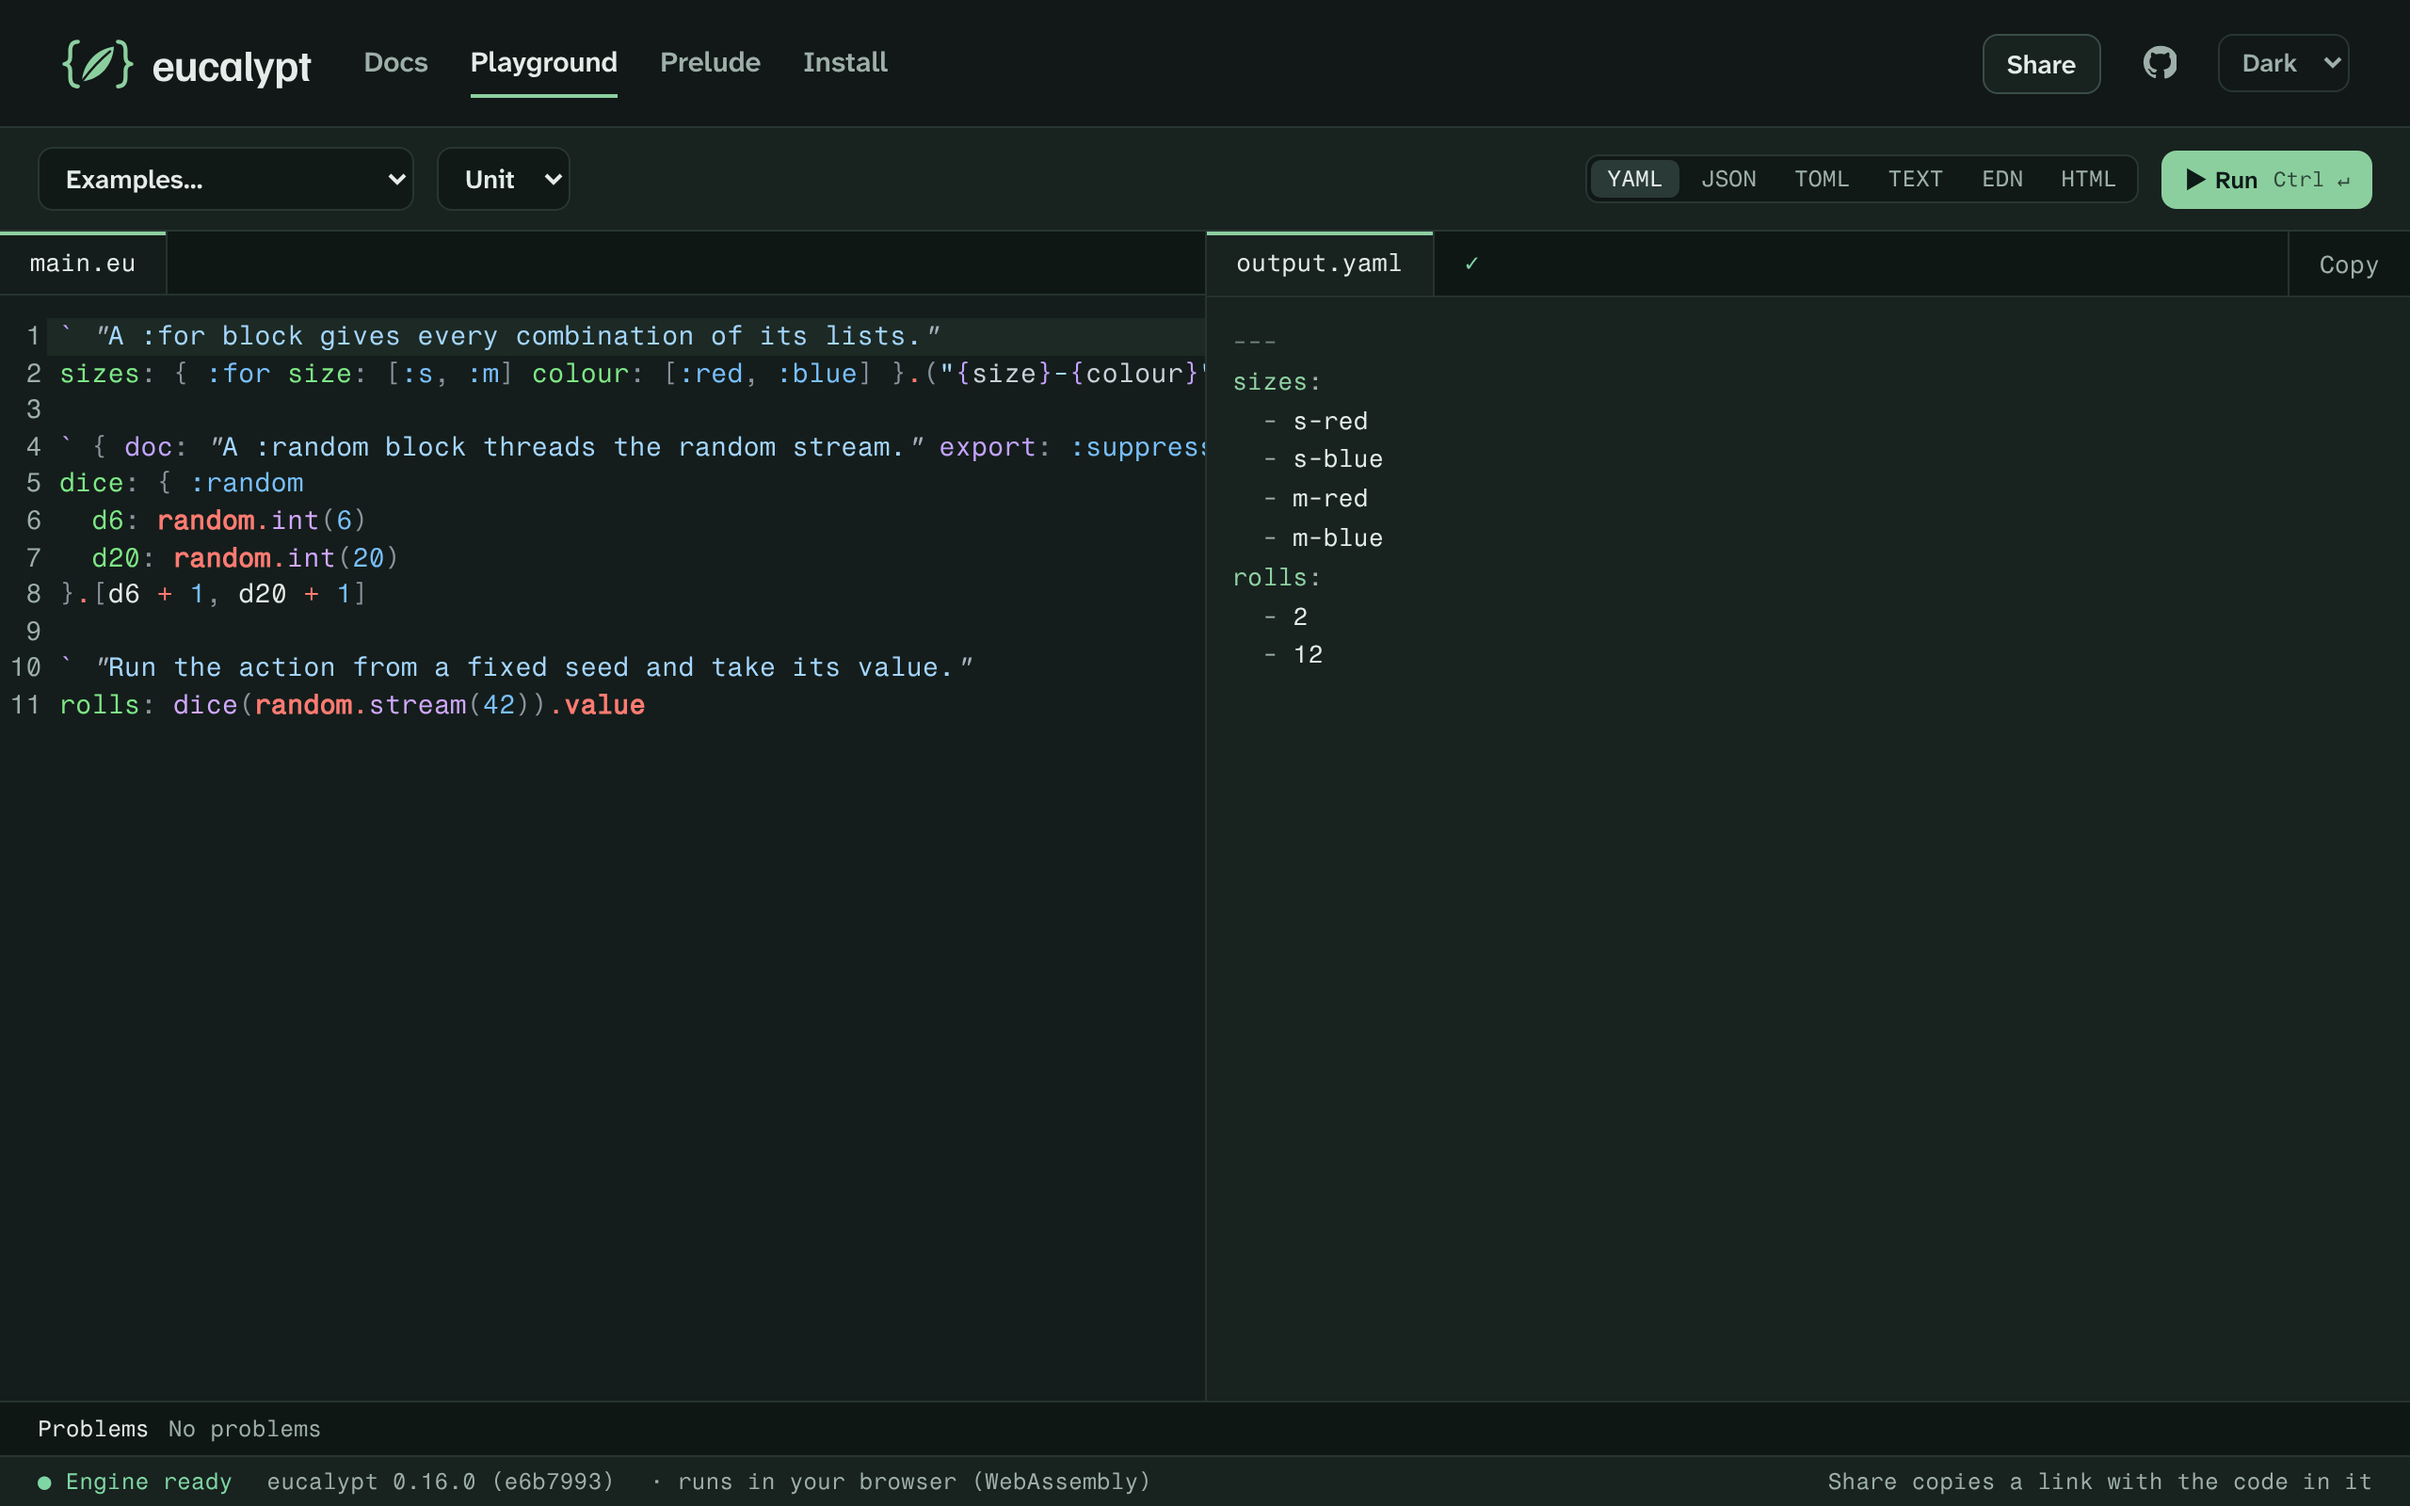
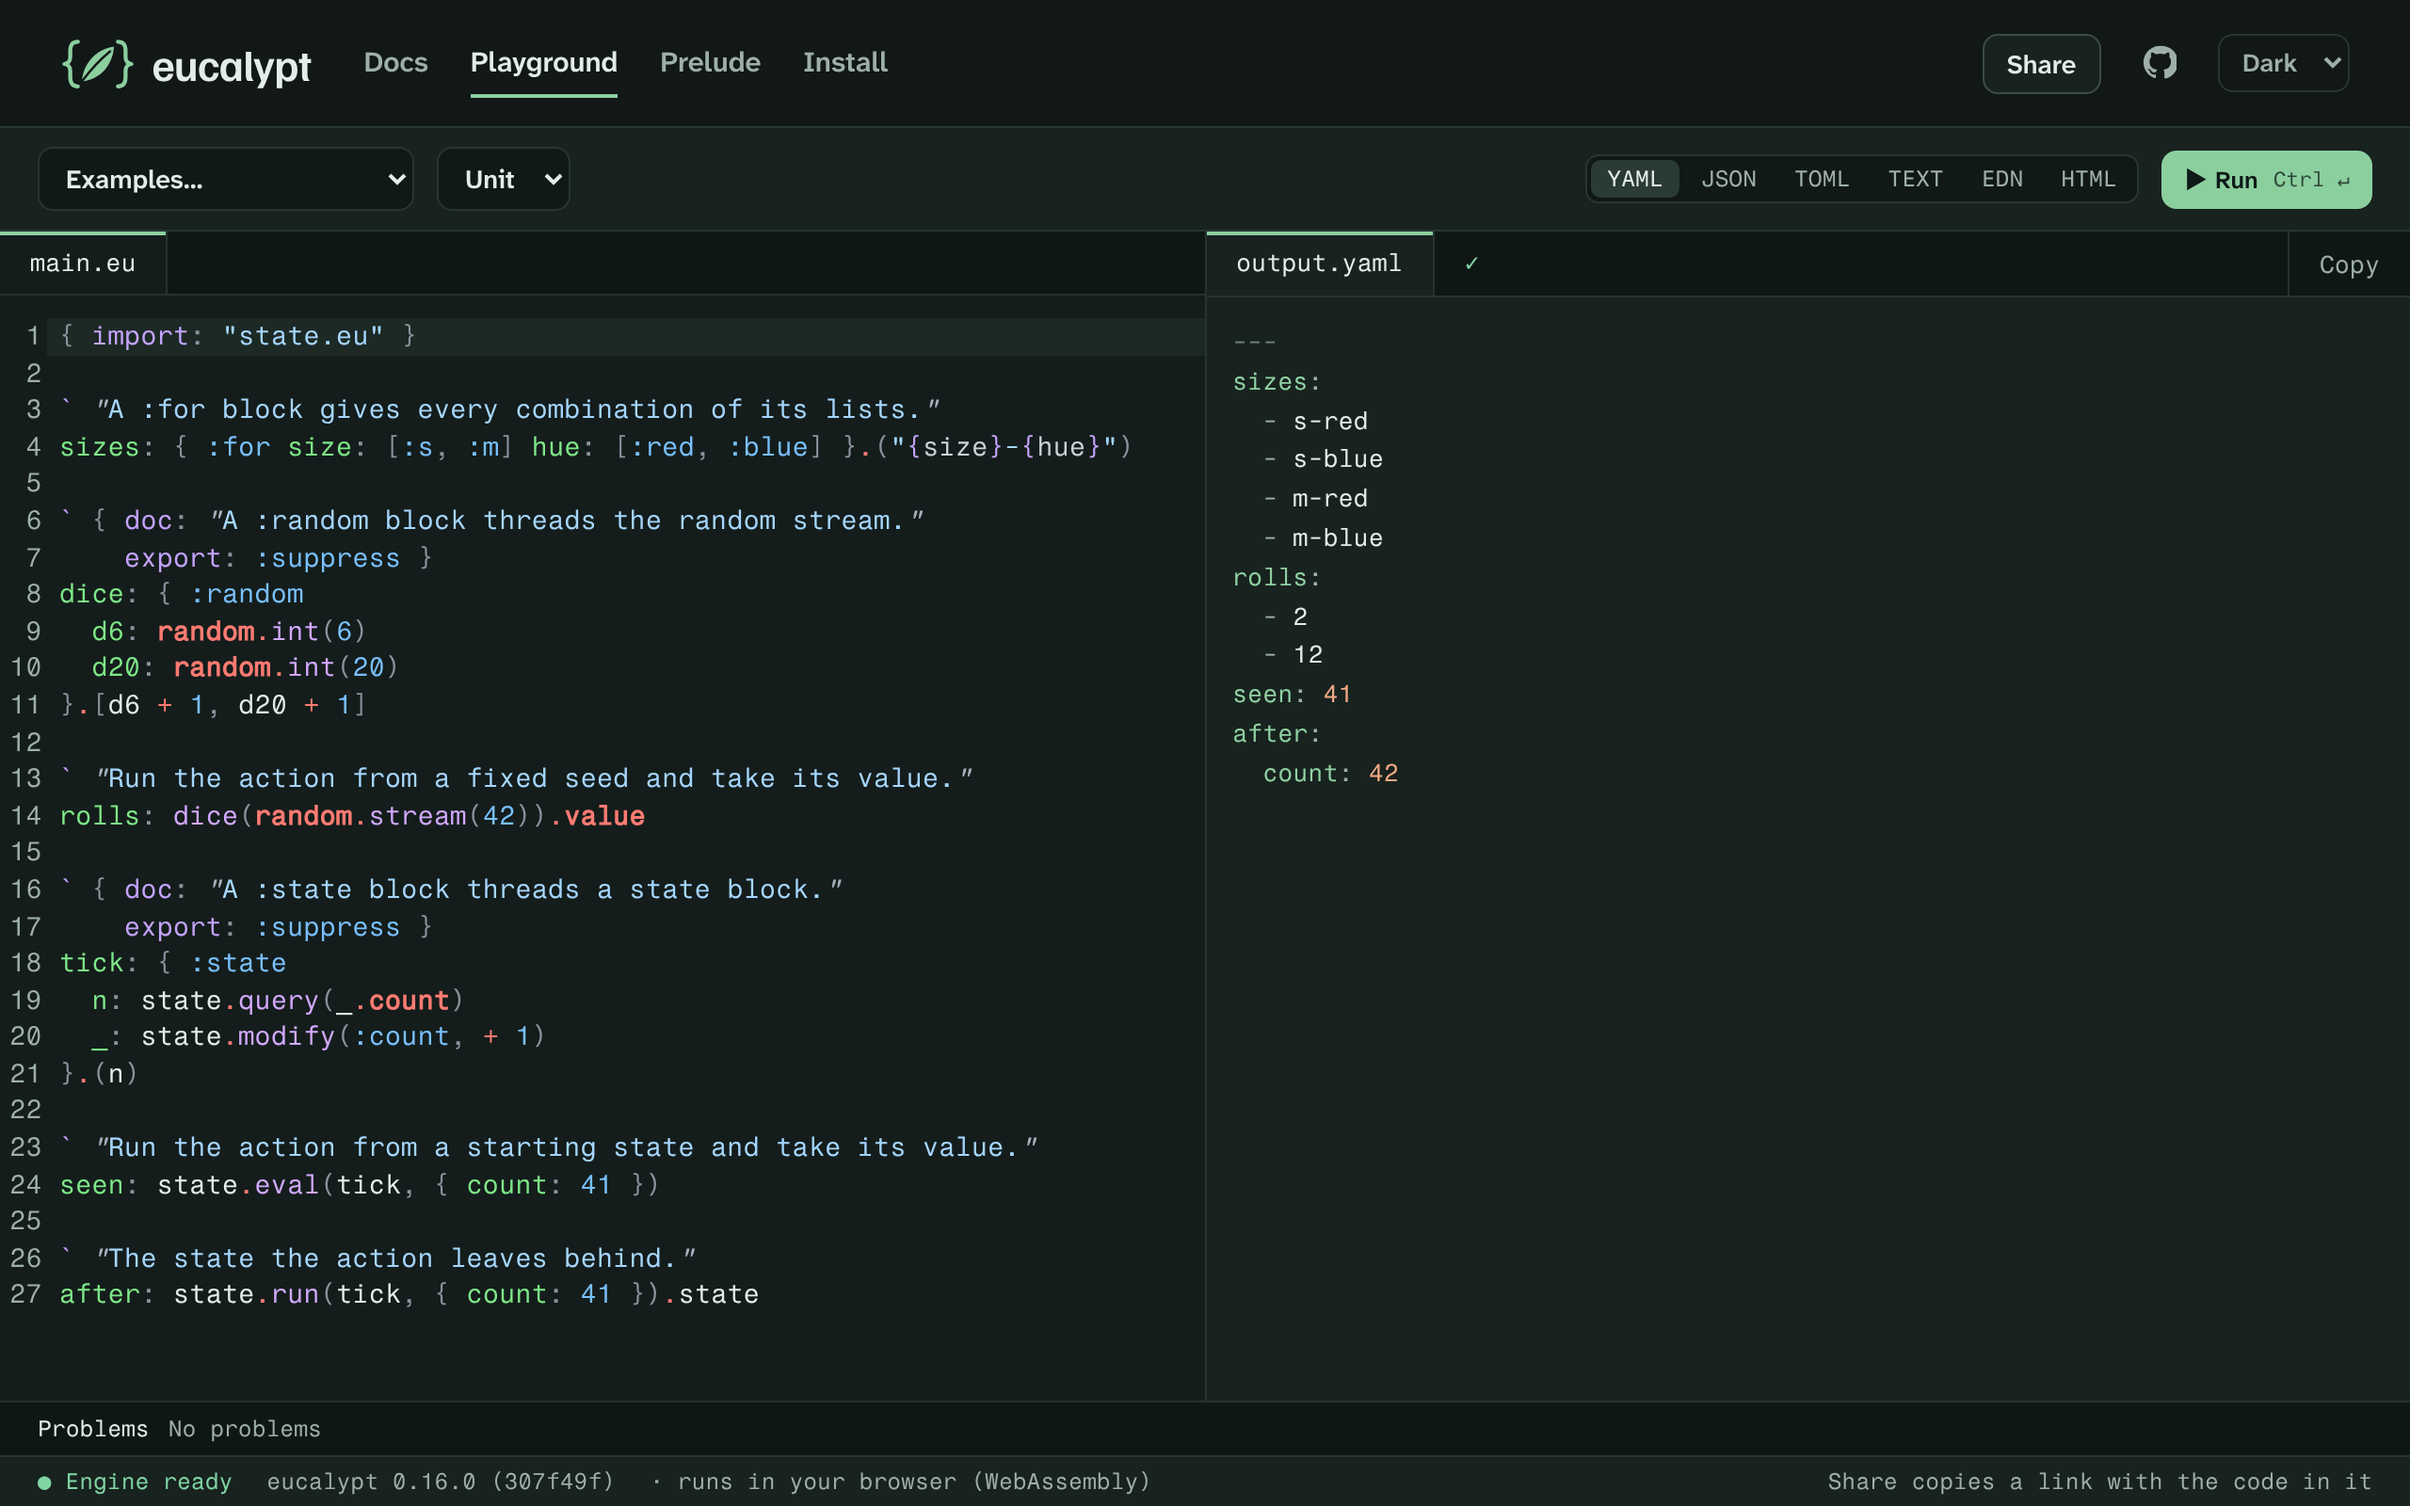
Use the real lens.eu and state.eu imports in the examples
With the pin at 307f49f the browser engine imports the embedded
libraries. Lenses drops its simplified copy of lens.eu for
{ import: "lens.eu" }, and Monads gains a :state counter from state.eu.
The spacing test lets a doc string continue over indented lines.

diff --git a/src/examples.ts b/src/examples.ts
@@ -153,7 +153,9 @@ deep-miss: data ~ :cache ~ :ttl`,
   {
     name: "Lenses",
     format: "yaml",
-    source: `config: { server: { db: { host: "localhost" port: 5432 } } }
+    source: `{ import: "lens.eu" }
+
+config: { server: { db: { host: "localhost" port: 5432 } } }
 
 \` "Read a nested value through a lens."
 host: config view(‹:server :db :host›)
@@ -162,41 +164,37 @@ host: config view(‹:server :db :host›)
 bumped: config over(‹:server :db :port›, + 1)
 
 \` "Replace the value: -> ignores the old one."
-moved: config over(‹:server :db :host›, -> "db.prod")
-
-# The playground cannot import lens.eu yet, so here are the
-# parts of it this example uses, simplified from lens.eu.
-
-\` "\`at(key)\` - a lens on the value at \`key\` in a block."
-at(key, k): {
-  fmap: meta(k).fmap
-  s(obj): fmap({ nv: • }.(obj alter-value(key, nv)),
-               k(obj lookup(key)))
-}.(s // meta(k))
-
-\` "\`view(lens, data)\` - the value \`lens\` focuses on."
-view(lens, data): data lens(identity // { fmap: flip(const) })
-
-\` "\`over(lens, fn, data)\` - \`data\` with \`fn\` applied at the focus."
-over(lens, fn, data):
-  data lens(fn // { fmap: identity, pure: identity, ap: identity })
-
-\` "A path of keys as one lens: ‹:a :b› is at(:a) ∘ at(:b)."
-‹xs›: xs map(at) foldr(∘, identity)`,
+moved: config over(‹:server :db :host›, -> "db.prod")`,
   },
   {
     name: "Monads",
     format: "yaml",
-    source: `\` "A :for block gives every combination of its lists."
-sizes: { :for size: [:s, :m] colour: [:red, :blue] }.("{size}-{colour}")
+    source: `{ import: "state.eu" }
 
-\` { doc: "A :random block threads the random stream." export: :suppress }
+\` "A :for block gives every combination of its lists."
+sizes: { :for size: [:s, :m] hue: [:red, :blue] }.("{size}-{hue}")
+
+\` { doc: "A :random block threads the random stream."
+    export: :suppress }
 dice: { :random
   d6: random.int(6)
   d20: random.int(20)
 }.[d6 + 1, d20 + 1]
 
 \` "Run the action from a fixed seed and take its value."
-rolls: dice(random.stream(42)).value`,
+rolls: dice(random.stream(42)).value
+
+\` { doc: "A :state block threads a state block."
+    export: :suppress }
+tick: { :state
+  n: state.query(_.count)
+  _: state.modify(:count, + 1)
+}.(n)
+
+\` "Run the action from a starting state and take its value."
+seen: state.eval(tick, { count: 41 })
+
+\` "The state the action leaves behind."
+after: state.run(tick, { count: 41 }).state`,
   },
 ];

diff --git a/tests/examples.test.ts b/tests/examples.test.ts
@@ -53,8 +53,11 @@ describe("playground examples", () => {
         const opens = /^[^\s}\]]/.test(lines[n]);
         // It must follow a blank line, or the doc string or comment it
         // belongs to.
-        const prev = lines[n - 1];
-        const ok = prev === "" || prev.startsWith("`") || prev.startsWith("#");
+        // A doc string continued over indented lines counts from its first.
+        let k = n - 1;
+        while (k > 0 && /^\s/.test(lines[k])) k--;
+        const prev = lines[k];
+        const ok = lines[n - 1] === "" || prev.startsWith("`") || prev.startsWith("#");
         expect(opens && !ok, `${name}, line ${n + 1}`).toBe(false);
       }
     }
@@ -84,17 +87,20 @@ describe("playground examples", () => {
     expect(out.total).toBe(400);
   });
 
-  it("Lenses: view and over", () => {
+  it("Lenses: view and over, with lens.eu imported", () => {
     const out = data("Lenses");
     expect(out.host).toBe("localhost");
     expect(out.bumped).toEqual({ server: { db: { host: "localhost", port: 5433 } } });
     expect(out.moved).toEqual({ server: { db: { host: "db.prod", port: 5432 } } });
   });
 
-  it("Monads: :for combinations and seeded :random rolls", () => {
+  it("Monads: :for combinations, seeded :random rolls and a :state counter", () => {
     const out = data("Monads");
     expect(out.sizes).toEqual(["s-red", "s-blue", "m-red", "m-blue"]);
     expect(out.rolls).toEqual([2, 12]);
+    expect(out.seen).toBe(41);
+    expect(out.after).toEqual({ count: 42 });
     expect(out).not.toHaveProperty("dice");
+    expect(out).not.toHaveProperty("tick");
   });
 });
